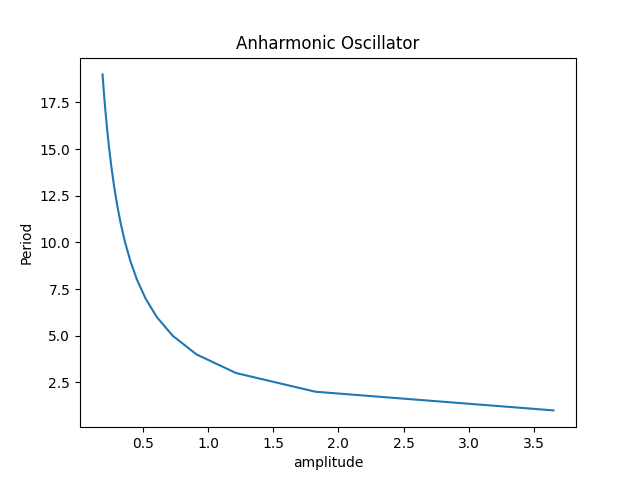
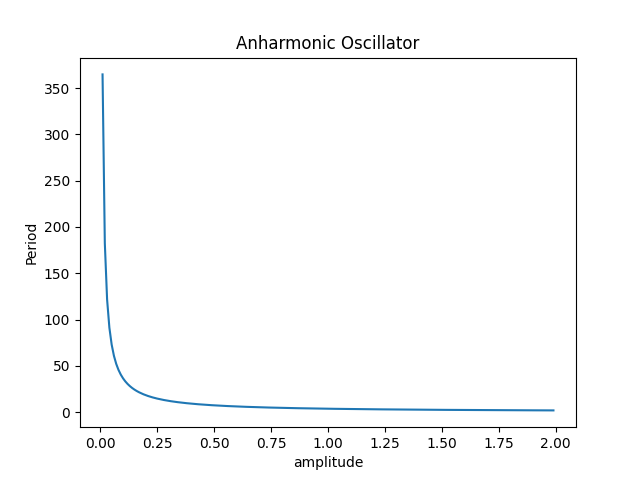
finished pset4

diff --git a/ps-4/problem3.py b/ps-4/problem3.py
@@ -1,0 +1,84 @@
+import numpy as np
+import matplotlib.pyplot as plt
+import math as math
+from scipy.integrate import fixed_quad
+"""
+Function created with the assistance of chatGPT.
+Prompt 1: How do I write a nonrecursive hermite polynomial
+Prompt 2: in python with  H_n = 2 * x * H_n_minus_1 - 2 * (i - 1) * H_n_minus_2
+"""
+def H(n, x):
+    if n == 0:
+        return 1
+    if n == 1:
+        return 2 * x
+    
+    H_n_minus_2 = 1  # H(0, x)
+    H_n_minus_1 = 2 * x  # H(1, x)
+    
+    for i in range(2, n + 1):
+        H_n = 2 * x * H_n_minus_1 - 2 * (i - 1) * H_n_minus_2
+        H_n_minus_2 = H_n_minus_1
+        H_n_minus_1 = H_n
+    
+    return H_n
+
+def QuantumHarmonicOscillatorWF(x, n):
+    norm = 1/np.sqrt(np.exp2(n) * math.factorial(n) * np.sqrt(np.pi))
+    functional = np.exp(-(x ** 2)/2) * H(n, x)
+    return norm * functional
+
+
+x = np.arange(-4, 4, 0.01)
+n = [0, 1, 2, 3]
+
+fig, ax = plt.subplots()
+
+for n in n:
+    ax.plot(x, QuantumHarmonicOscillatorWF(x, n), label = f"n = {n}")
+
+ax.legend()
+ax.set_xlabel("x")
+ax.set_ylabel("Wavefunction")
+ax.set_title("Quantum harmonic oscillator for n = 0, 1, 2, 3")
+
+plt.savefig("ps-4/plots/QHO")
+
+x = np.arange(-10, 10, 0.1)
+n = 30
+y = QuantumHarmonicOscillatorWF(x, n)
+
+fig, ax = plt.subplots()
+
+ax.plot(x, QuantumHarmonicOscillatorWF(x, n), label = f"n = {n}")
+
+ax.legend()
+ax.set_xlabel("x")
+ax.set_ylabel("Wavefunction")
+ax.set_title("Quantum harmonic oscillator for n = 30")
+
+plt.savefig("ps-4/plots/QHOLong")
+
+N = 100
+xp, wp = np.polynomial.hermite.hermgauss(N)
+
+def Integral(n = None, z = None):
+    integrand = np.exp(z ** 2) * (z ** 2 * QuantumHarmonicOscillatorWF(z, n) ** 2)
+    return integrand
+def func_rescale(n = None,  xp=None, range=None):
+    weight = (range[1] - range[0]) * 0.5
+    z = range[0] + 0.5 * (range[1] - range[0]) * (xp + 1.)
+    return(weight * Integral(n = n, z = z))
+
+def uncertainty(n, wp, xp):
+    gauss_integral = (Integral(n = n, z = xp) * wp).sum()
+    # range = [-np.pi/2, np.pi/2]
+    # gauss_integral = (func_rescale(n = n, xp = xp, range = range) * wp).sum()
+    return gauss_integral
+
+uncertainty = np.sqrt(uncertainty(n = 5, wp = wp, xp = xp))
+error = uncertainty - np.sqrt(11/2)
+
+print(f"We get an uncertainty of: {uncertainty} for the 5th wavefunction")
+print(f"This is about {error} off from the correct result")
+

diff --git a/ps-4/problem2.py b/ps-4/problem2.py
@@ -29,7 +29,7 @@ def T(a, wp, xp):
 def plot_T_a():
     Ts = []
     ass = []
-    for a in range(20):
+    for a in np.arange(0, 2, 0.01):
         ass.append(a)
         Ts.append( T(a, wp, xp))
 
@@ -38,7 +38,7 @@ def plot_T_a():
 ass, Ts = plot_T_a()
 
 fig, ax = plt.subplots()
-ax.plot(Ts, ass)
+ax.plot(ass, Ts)
 ax.set_title("Anharmonic Oscillator")
 ax.set_xlabel("amplitude")
 ax.set_ylabel("Period")
